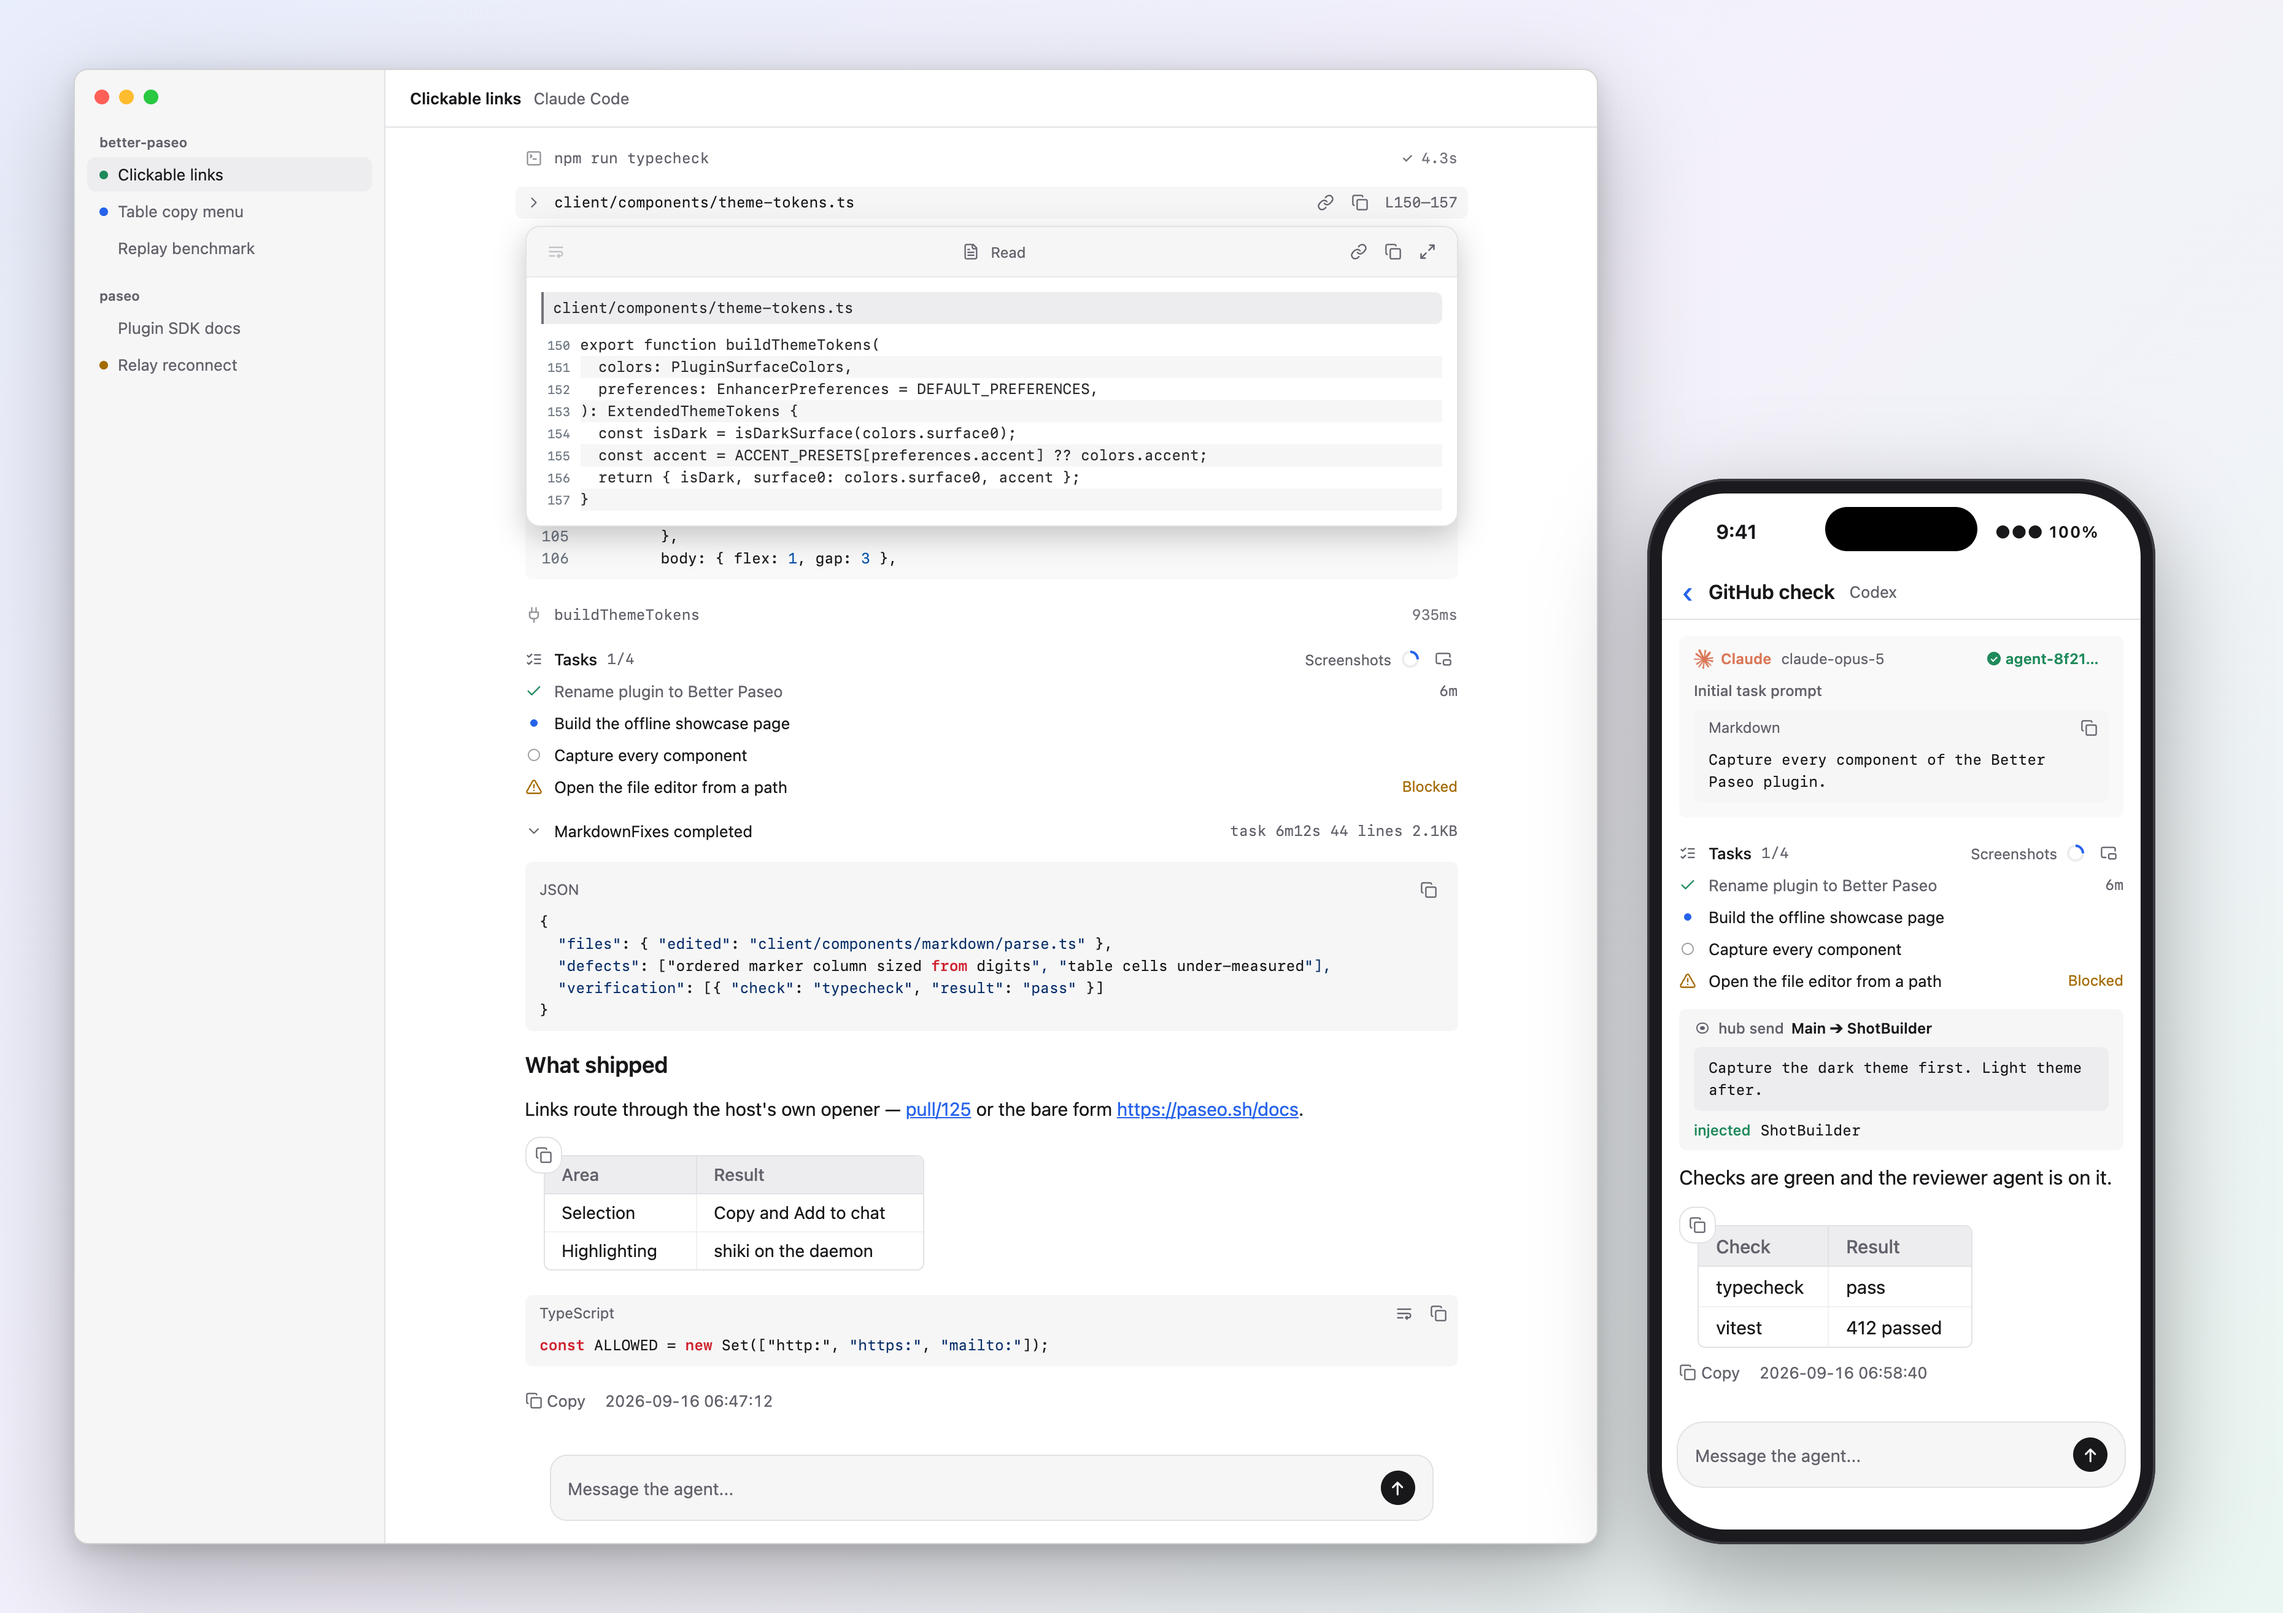
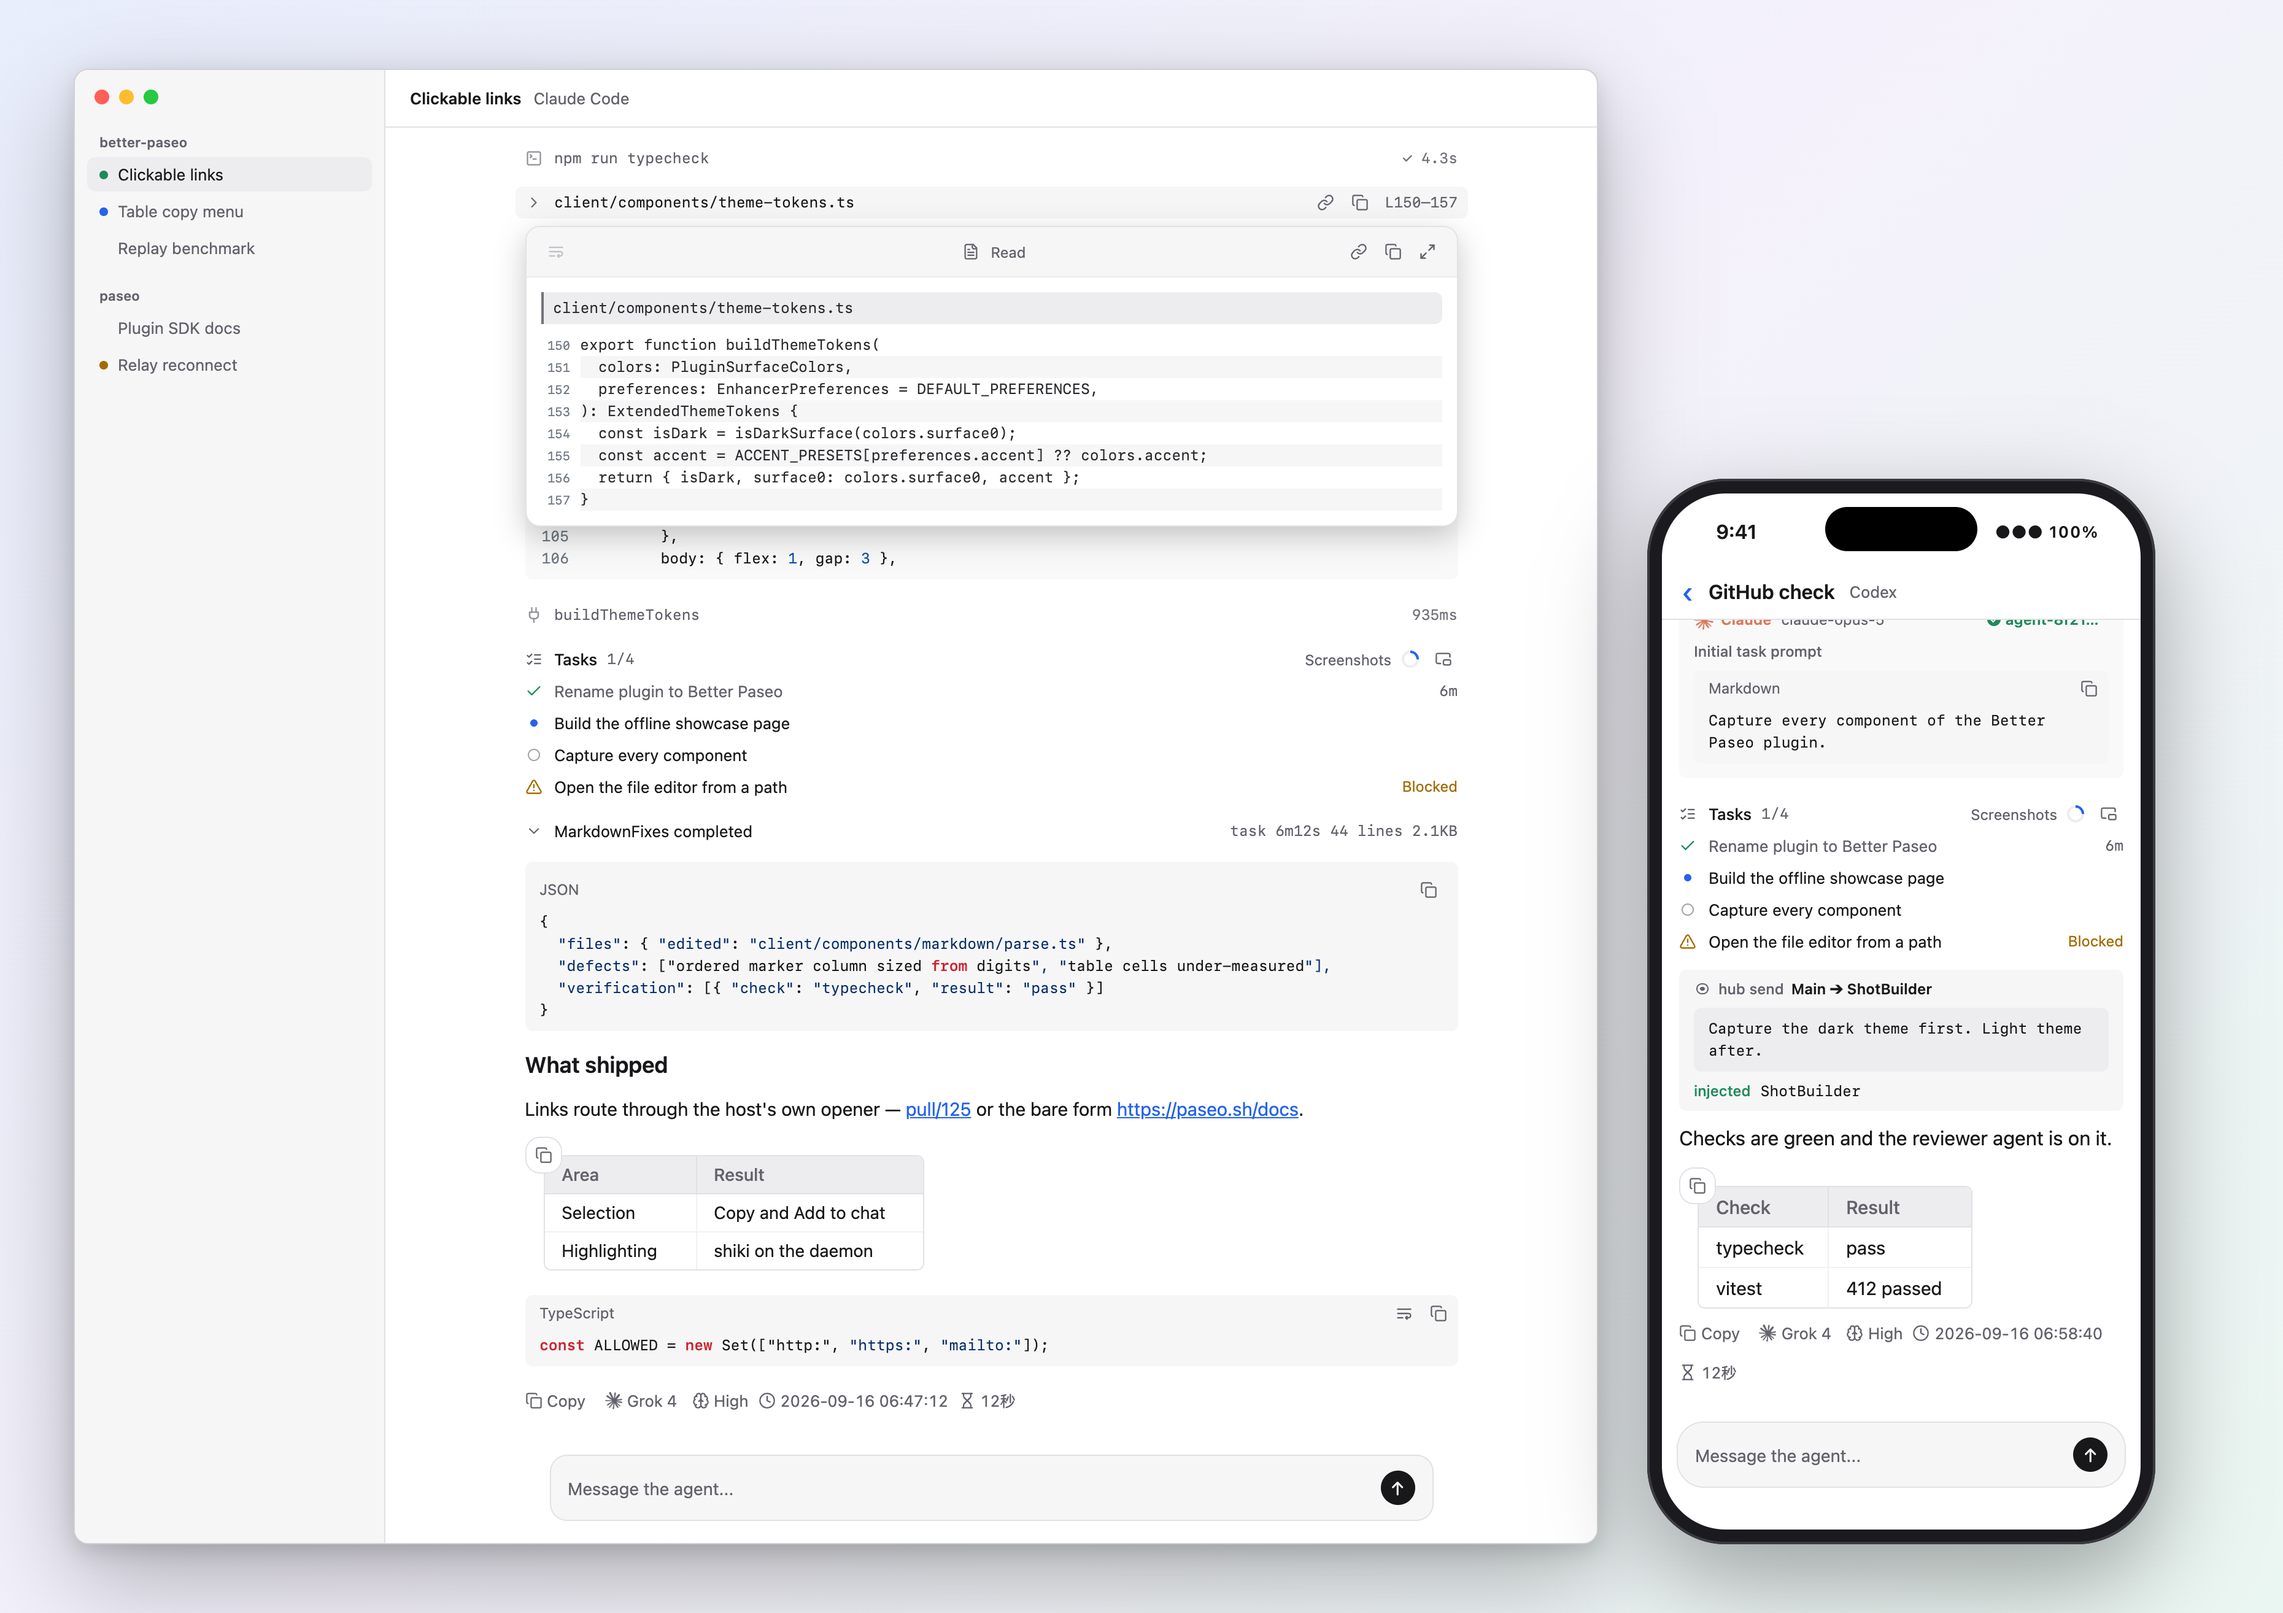
docs(readme): add screenshots for this week's features and retake stale ones
New shots: question transcripts, the floating checklist, the maximized Markdown preview, table copy and cell actions, selection actions, shared image cards and the block text size setting. Retook the six shots whose visible content had changed.

diff --git a/README.md b/README.md
@@ -267,13 +267,18 @@ data, it gets a question transcript; otherwise it stays a generic text card.
 - Rows keep the time they first appeared, so parallel reads no longer reorder or change spacing
   when one finishes first.
 - Row heads show an icon, a label or both. Long code and terminal output fold to 12 lines.
-- Paseo's own tools carry the Paseo mark, and a created agent its provider's mark.
+- **Block text size** changes prose in tool, thought, checklist and notice rows; code, diffs and
+  terminal output keep their code font size.
+- Paseo's own tools carry the Paseo mark; agent cards and reply footers use the agent's provider
+  mark, independently of the selected model.
 - Every op of Oh My Pi's `hub` tool has a card: processes, messages and job snapshots. The cards
   report; they carry no buttons, since a plugin cannot restart or cancel anything.
 - Across agents, recognized question calls with structured `questions` data render as paginated
   transcripts with choices, recorded answers and status. **Show raw data** reveals the payload;
   the transcript is read-only, and Paseo still handles answers. Questions stay wrapped in previews
   for readability.
+
+![Structured question transcript with recorded answers](docs/images/questions.png)
 
 | Shell and Git | Read |
 | --- | --- |
@@ -298,11 +303,14 @@ data, it gets a question transcript; otherwise it stays a generic text card.
   collapsed by default, and while it streams the row previews the current heading.
 - Durations are shown only when this client actually watched the reasoning stream; nothing is
   estimated.
-- Checklists show the phase, per-task status, durations, and a blocked task with its reason. The
-  header's window button opens the live checklist in a panel that follows the newest list; long titles can wrap there.
+- Checklists show the phase, per-task status, durations, and a blocked task with its reason. A
+  progress ring tracks completed tasks and becomes a check when all are done. The header's window
+  button opens the live checklist in a panel that stays open as you use the timeline and follows the
+  newest list; long titles can wrap there.
 
 ![Reasoning trace](docs/images/reasoning.png)
 ![Checklist](docs/images/tasks.png)
+![Live checklist in a floating window](docs/images/checklist-window.png)
 
 ### Replies
 
@@ -310,6 +318,7 @@ data, it gets a question transcript; otherwise it stays a generic text card.
   and local images. Three styles: **Document**, **Compact** and **Terminal**.
 - Unlabelled, Markdown and plain-text code fences can open a maximized preview window. Switch
   between rendered Markdown and raw text, copy the source, and use **Wrap lines** in raw-text mode.
+  The window stays separate from the compact reply.
 - Tables have column rules, a header fill and a rounded frame; cells are a size smaller with tighter
   lines, and column widths account for tabular digits and CJK width.
 - Every table has a copy control at its top-left corner. On web and desktop, hovering it (or a
@@ -320,13 +329,18 @@ data, it gets a question transcript; otherwise it stays a generic text card.
   composer capability.
 - Each completed turn has a separate footer under its final reply with Copy and its time, plus the
   provider mark, model, thinking level and observed duration when available. The model name copies
-  when pressed, and completed-turn footers remain during a later run. Turn
+  when pressed and confirms with a toast; completed-turn footers remain during a later run. Turn
   **Plugin markdown for replies** off to restore Paseo's full footer, including its Fork action.
 - Every local image in a reply is drawn, not only the first.
 - Turn **Plugin markdown for replies** off to hand replies back to Paseo, which draws mermaid
   diagrams and its own images and file links.
 
+| Table copy menu | Selected cell actions |
+| --- | --- |
+| ![Table copy menu](docs/images/table-copy-menu.png) | ![Selected table cell actions](docs/images/table-selection.png) |
+
 ![Document, Compact and Terminal markdown styles](docs/images/markdown-styles.png)
+![Maximized Markdown code preview in raw-text mode](docs/images/markdown-preview-window.png)
 
 ### Images
 
@@ -338,13 +352,18 @@ data, it gets a question transcript; otherwise it stays a generic text card.
 - Bytes come from the daemon (`file.image`) the first time a row is opened, previewed or
   long-pressed. PNG, JPEG, GIF, WebP, AVIF, BMP, ICO and SVG are recognised; files over 3 MB report
   their size instead of inlining.
+- When multiple read cards point to the same image, each card displays it.
+
+![Two read cards displaying the same image](docs/images/shared-image-cards.png)
 
 ### Hover previews
 
 On desktop, resting the pointer on a collapsed tool row, thought row, image or path opens a
 scrollable preview after a delay you set (0–10 s). It can wrap lines, show line numbers and
-alternating shading, and can be moved, resized, maximised or popped out as a floating window. On a
-phone, long-press a collapsed row to open the same preview without covering the top bar or composer.
+alternating shading, and can be moved, resized or maximized. A checklist can open its live list in a
+floating window, and a Markdown code block can open its own maximized preview. When a preview is
+following live output, it glides along as the content grows. On a phone, long-press a collapsed row
+to open the same preview without covering the top bar or composer.
 
 ### Paths, copying and selection
 
@@ -356,6 +375,8 @@ phone, long-press a collapsed row to open the same preview without covering the 
 - Selecting text in a card on web or desktop raises **Copy** and **Add to chat**, which quotes the
   selection in the composer, fenced when it came from code. The bar closes on scroll; if no composer
   is visible, **Add to chat** copies the selection instead.
+
+![Selected text with Copy and Add to chat actions](docs/images/selection-actions.png)
 
 ### Prompt bubble
 
@@ -387,6 +408,7 @@ turn at phone width with iOS styling and the inline-code colour you picked.
 Options whose parent is off are dimmed, and **Reset** asks for a second press.
 
 ![Settings page with its live preview](docs/images/settings.png)
+![Block text size setting with its live preview](docs/images/settings-tools.png)
 
 | Group | Setting | Default | Effect |
 | --- | --- | --- | --- |
